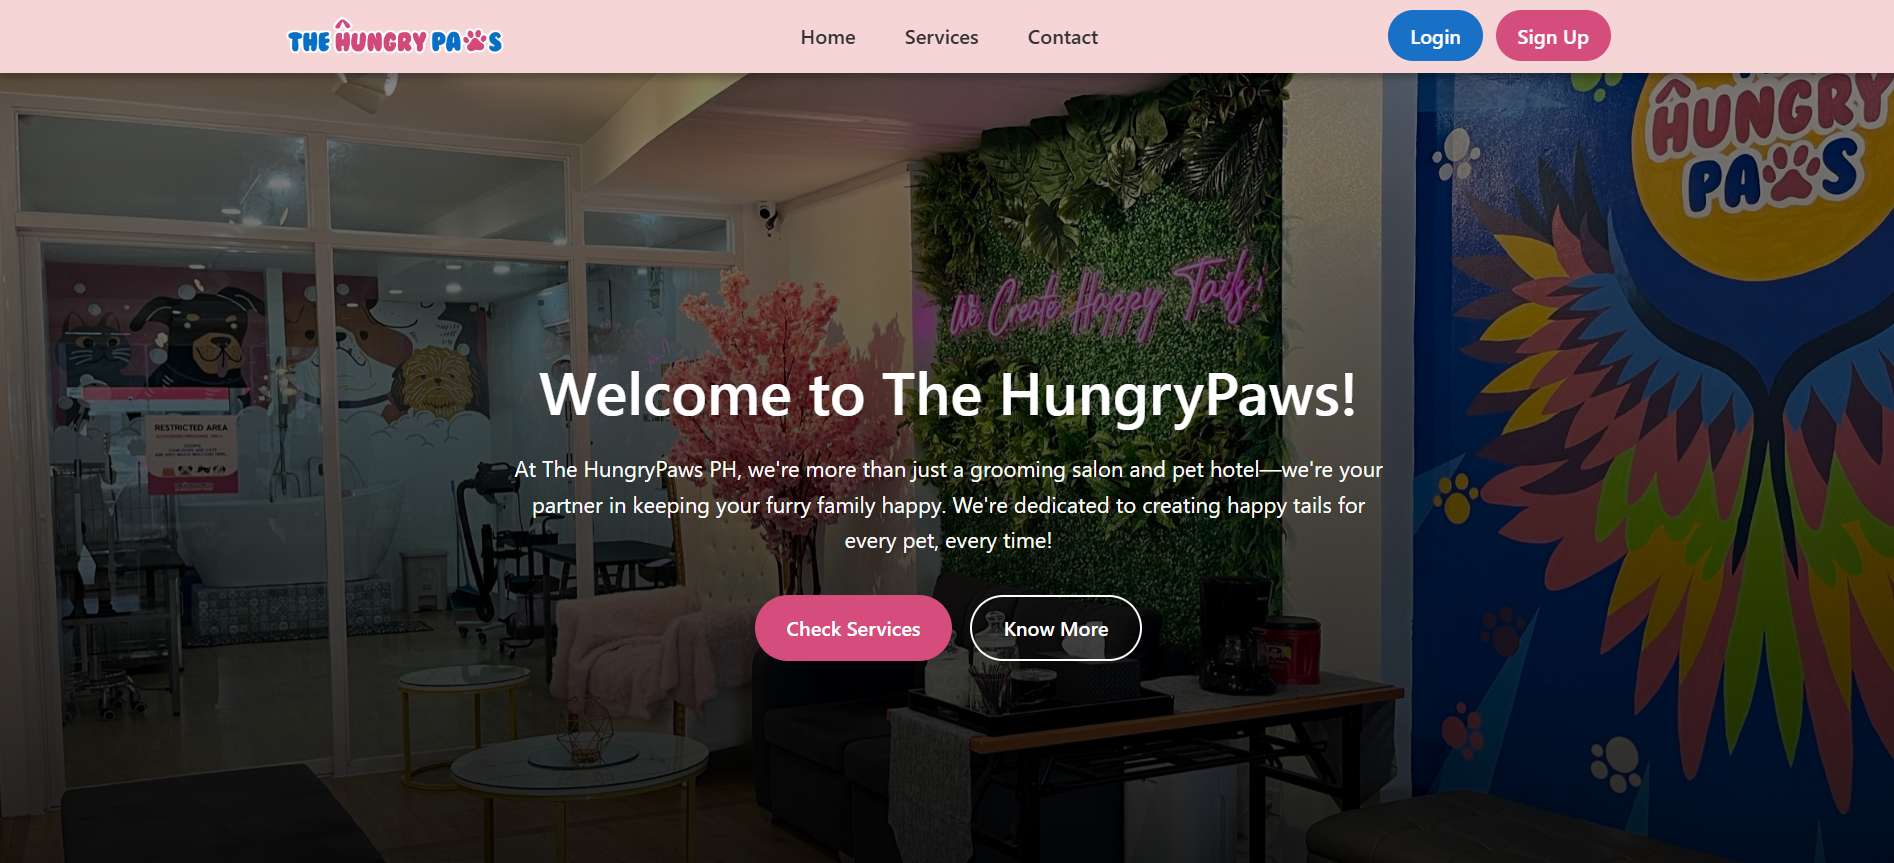
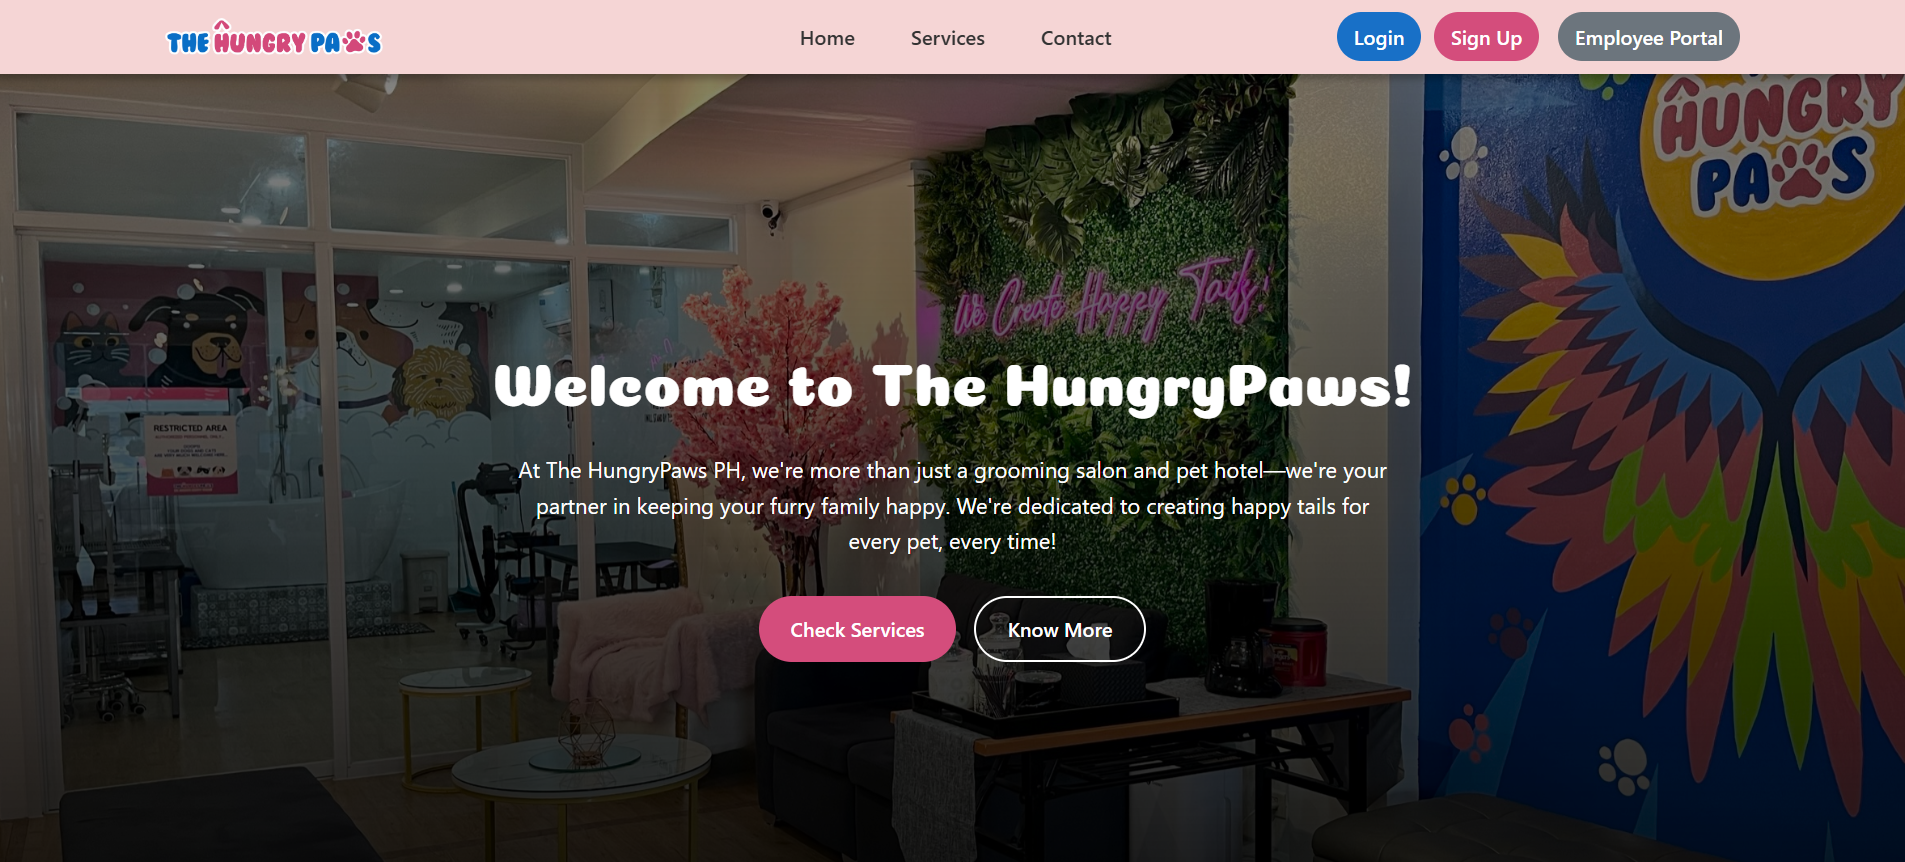
project update

diff --git a/index.html b/index.html
@@ -158,7 +158,7 @@
           <i class="devicon-mongodb-plain colored"></i>
           <span>MongoDB</span>
         </div>
-        <div class="stack-item" data-name="Aws">
+        <div class="stack-item" data-name="Amazon Web">
           <img src="https://cdn.jsdelivr.net/gh/devicons/devicon@latest/icons/amazonwebservices/amazonwebservices-plain-wordmark.svg" />
           <span>AWS</span>
         </div>
@@ -228,8 +228,6 @@
                 design, responsive layout, and has Google Authentication. Users may sign up or log in for better user experience. Pet owners may add 
                 their pet, pet information, book appointments, and monitor booking status.</p>
             <div class="project-tags">
-              <span>HTML</span>
-              <span>CSS</span>
               <span>JavaScript</span>
               <span>Node.js</span>
               <span>GitHub</span>
